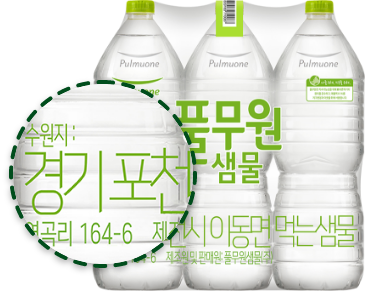
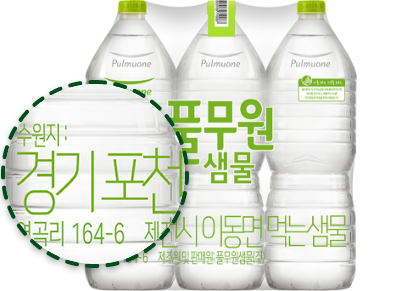
Design : 일부 이미지 포지션 조정 및 인풋 포커스 변경

diff --git a/src/assets/data/finance.js b/src/assets/data/finance.js
@@ -87,3 +87,100 @@ export const finance = [
     cardinalBefore: ['2,659,672,094	', ''],
   },
 ];
+
+export const finances = [
+  {
+    year: 2020, // 년도
+    finance: 18, // 기수
+    date: '2020년 12월 31일',
+    data: [
+      {
+        subject: '자산',
+        point: true,
+        cardinalAfter: ['', ''],
+        cardinalBefore: ['', ''],
+      },
+      {
+        subject: 'Ⅰ.유동자산',
+        point: true,
+        cardinalAfter: ['', '12,437,382,935'],
+        cardinalBefore: ['', '11,147,101,577'],
+      },
+      {
+        subject: '(1) 당좌자산',
+        cardinalAfter: ['', '7,555,444,092'],
+        cardinalBefore: ['', '7,627,965,745'],
+      },
+      {
+        subject: '현금및현금성자산',
+        cardinalAfter: ['159,756,332', ''],
+        cardinalBefore: ['199,790,872', ''],
+      },
+      {
+        subject: '매출채권',
+        cardinalAfter: ['6,293,761,302', ''],
+        cardinalBefore: ['6,184,713,239	', ''],
+      },
+      {
+        subject: '대손충당금',
+        cardinalAfter: ['(14,071,000)', ''],
+        cardinalBefore: ['(66,888,000)	', ''],
+      },
+      {
+        subject: '미수금',
+        cardinalAfter: ['189,332,417', ''],
+        cardinalBefore: ['608,574,697', ''],
+      },
+      {
+        subject: '대손충당금',
+        cardinalAfter: ['(99,742,494)', ''],
+        cardinalBefore: ['(99,742,494)', ''],
+      },
+      {
+        subject: '선급금',
+        cardinalAfter: ['206,000,000', ''],
+        cardinalBefore: ['206,000,000', ''],
+      },
+      {
+        subject: '선급비용',
+        cardinalAfter: ['171,190,571', ''],
+        cardinalBefore: ['163,026,944', ''],
+      },
+      {
+        subject: '미수수익',
+        cardinalAfter: ['9,968,935', ''],
+        cardinalBefore: ['-', ''],
+      },
+      {
+        subject: '유동성장기대여금',
+        cardinalAfter: ['204,000,000', ''],
+        cardinalBefore: ['-', ''],
+      },
+      {
+        subject: '유동이연법인세자산',
+        cardinalAfter: ['435,248,029', ''],
+        cardinalBefore: ['432,490,487	', ''],
+      },
+      {
+        subject: '(2) 재고자산',
+        cardinalAfter: ['', '4,881,938,843'],
+        cardinalBefore: ['', '3,519,135,832'],
+      },
+      {
+        subject: '상품',
+        cardinalAfter: ['25,343,695', ''],
+        cardinalBefore: ['21,562,407', ''],
+      },
+      {
+        subject: '제품',
+        cardinalAfter: ['1,145,668,118', ''],
+        cardinalBefore: ['837,901,331', ''],
+      },
+      {
+        subject: '저장품',
+        cardinalAfter: ['3,710,927,030', ''],
+        cardinalBefore: ['2,659,672,094	', ''],
+      },
+    ],
+  },
+];

diff --git a/src/pages/gree/finance/index.js b/src/pages/gree/finance/index.js
@@ -1,17 +1,18 @@
+import { useState, useEffect } from 'react';
 import classNames from 'classnames/bind';
 
 import styles from './index.module.scss';
 
-import { finance } from '../../../assets/data/finance';
+import { finance, finances } from '../../../assets/data/finance';
 
 import PageTitle from '../../../components/shared/PageTitle';
 
 const cx = classNames.bind(styles);
 
 function Finance() {
-  const numberWithCommas = (string) => {
-    return string.toString().replace(/\B(?=(\d{3})+(?!\d))/g, ',');
-  };
+  const [data, setData] = useState(finances);
+
+  const handleChange = (event) => {};
 
   return (
     <div className={cx('container')}>
@@ -19,7 +20,9 @@ function Finance() {
       <div className={cx('selectInner')}>
         <div className={cx('select')}>
           <select>
-            <option>2021 전자공시</option>
+            <option value={2020}>2020 전자공시</option>
+            <option value={2019}>2019 전자공시</option>
+            <option value={2018}>2018 전자공시</option>
           </select>
           <button>확인하기</button>
         </div>
@@ -45,12 +48,12 @@ function Finance() {
                 {finance.map((item, index) => (
                   <li key={index}>
                     <ul>
-                      <li>{item.subject}</li>
+                      <li className={cx({ point: item.point })}>{item.subject}</li>
                       {item.cardinalAfter.map((cardinal, index) => (
-                        <li key={index}>{numberWithCommas(cardinal)}</li>
+                        <li key={index}>{cardinal}</li>
                       ))}
                       {item.cardinalBefore.map((cardinal, index) => (
-                        <li key={index}>{numberWithCommas(cardinal)}</li>
+                        <li key={index}>{cardinal}</li>
                       ))}
                     </ul>
                   </li>

diff --git a/src/pages/home/S04.js b/src/pages/home/S04.js
@@ -97,31 +97,31 @@ const S04 = () => {
               <span>1</span> 초경량 뚜껑
             </h3>
             <p>
-              기존 자사 제품대비
-              <br />
               플라스틱 사용량 40% 저감
+              <br />
+              (기존 자사 제품 대비)
             </p>
           </div>
           <div className={cx(['feature', 'feat2'])}>
             <img draggable="false" src={mark2} alt="" />
             <h3>
-              <span>2</span> 메론맛 바베큐
+              <span>2</span> 상표띠 제거
             </h3>
             <p>
-              기존 자사 제품대비
+              비닐 사용량 15% 저감
               <br />
-              플라스틱 사용량 40% 저감
+              (기존 제품 1팩 기준)
             </p>
           </div>
           <div className={cx(['feature', 'feat3'])}>
             <img draggable="false" src={mark3} alt="" />
             <h3>
-              <span>3</span> 상어맛 라면
+              <span>3</span> 초경량 용기
             </h3>
             <p>
-              기존 자사 제품대비
+              2L-32.6g / 500mL-11.1g
               <br />
-              플라스틱 사용량 40% 저감
+              (1병 기준)
             </p>
           </div>
         </div>

diff --git a/src/pages/brand/think/index.js b/src/pages/brand/think/index.js
@@ -82,21 +82,21 @@ function Think() {
           <h3>무라벨 제품 정보 표기</h3>
           <ul className={cx('list')}>
             <li>
-              <div className={cx('image')} style={{ backgroundImage: `url(${mark_img01})` }}></div>
+              <img src={mark_img01} alt="" />
               <div className={cx('info')}>
                 <h4>낱병</h4>
                 <p>제품명, 수원지, 제조일, 고객센터 번호</p>
               </div>
             </li>
             <li>
-              <div className={cx('image')} style={{ backgroundImage: `url(${mark_img02})` }}></div>
+              <img src={mark_img02} alt="" />
               <div className={cx('info')}>
                 <h4>팩 전면</h4>
                 <p>수원지 정보</p>
               </div>
             </li>
             <li>
-              <div className={cx('image')} style={{ backgroundImage: `url(${mark_img03})` }}></div>
+              <img src={mark_img03} alt="" />
               <div className={cx('info')}>
                 <h4>팩 후면</h4>
                 <p>무기물질함량, 제품 상세 정보</p>

diff --git a/public/index.html b/public/index.html
@@ -7,6 +7,7 @@
     <meta name="theme-color" content="#000000" />
     <meta name="description" content="Web site created using create-react-app" />
     <link rel="apple-touch-icon" href="%PUBLIC_URL%/logo192.png" />
+
     <!--
       manifest.json provides metadata used when your web app is installed on a
       user's mobile device or desktop. See https://developers.google.com/web/fundamentals/web-app-manifest/

diff --git a/src/pages/brand/think/index.module.scss b/src/pages/brand/think/index.module.scss
@@ -131,6 +131,12 @@
               min-height: 18.125rem;
             }
 
+            > img {
+              height: 18.125rem;
+              width: auto;
+              margin: auto;
+            }
+
             > .info {
               margin-top: 1rem;
               > h4 {

diff --git a/src/index.scss b/src/index.scss
@@ -42,3 +42,19 @@ ol {
   padding: 0;
   margin: 0;
 }
+
+input {
+  &:focus {
+    outline: 3px solid #8dc63e;
+  }
+}
+textarea {
+  &:focus {
+    outline: 3px solid #8dc63e;
+  }
+}
+select {
+  &:focus {
+    outline: 3px solid #8dc63e;
+  }
+}
